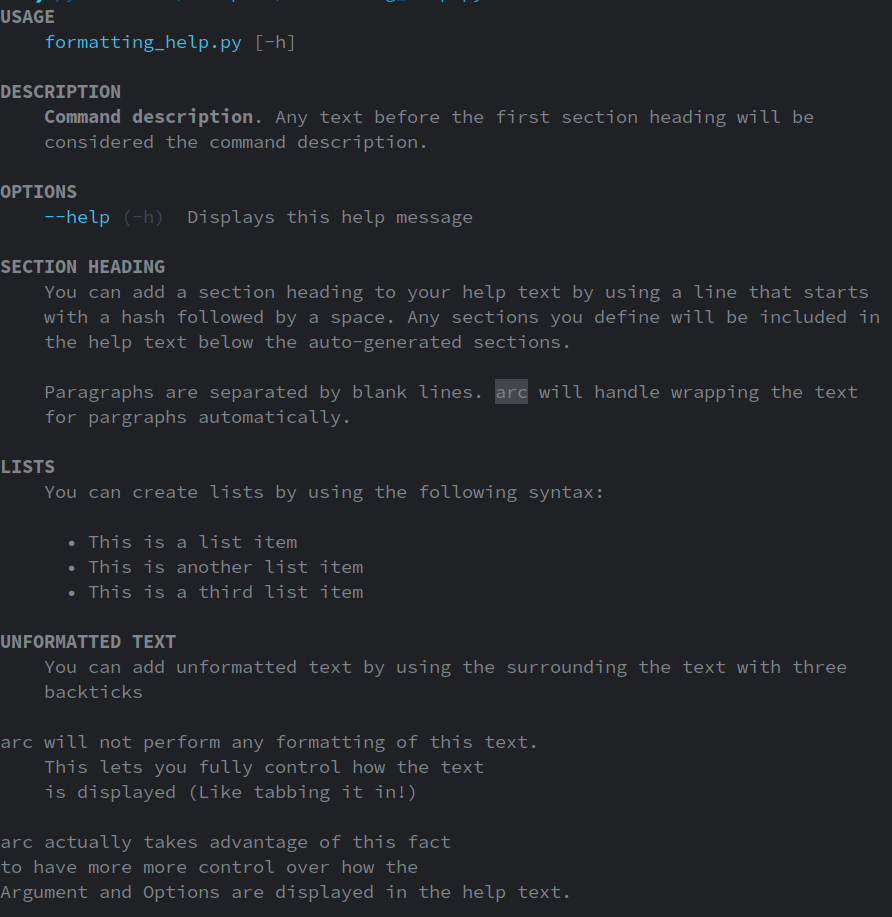
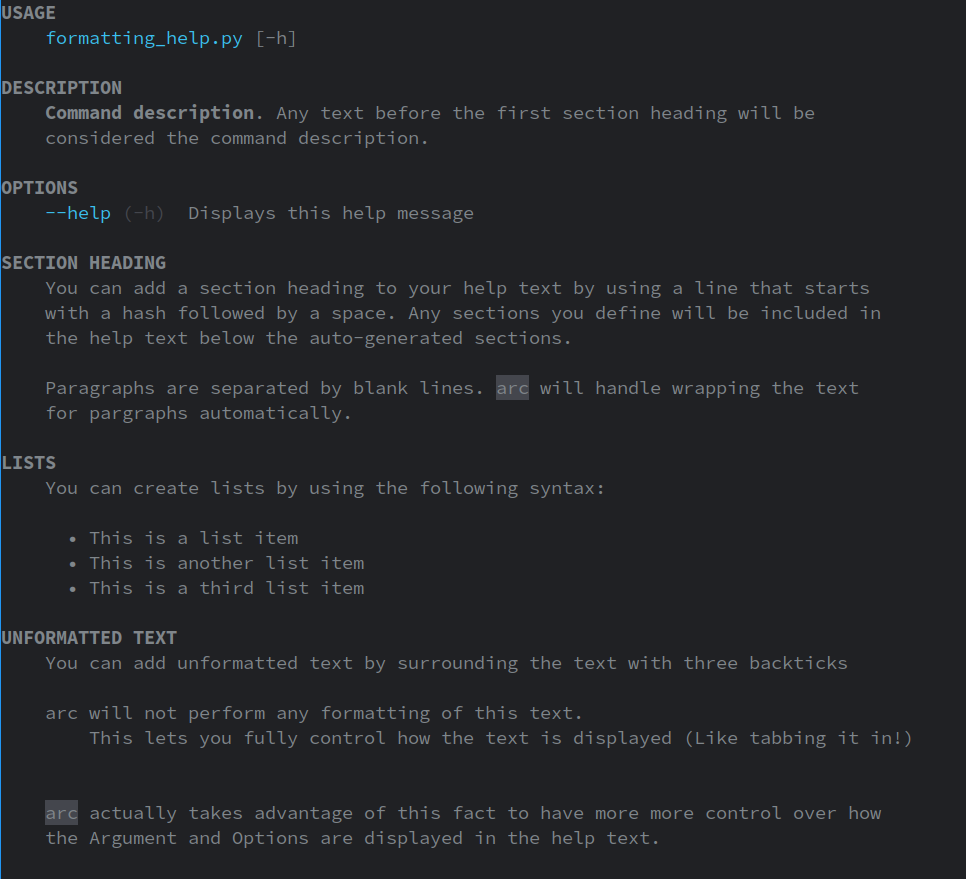
improved help documentation

diff --git a/docs/examples/formatting_help.py b/docs/examples/formatting_help.py
@@ -23,18 +23,17 @@ def command():
     - This is a third list item
 
     # Unformatted text
-    You can add unformatted text by using the
-    surrounding the text with three backticks
+    You can add unformatted text by surrounding the
+    text with three backticks
 
     ```
-    arc will not perform any formatting of this text.
-        This lets you fully control how the text
-        is displayed (Like tabbing it in!)
+        arc will not perform any formatting of this text.
+            This lets you fully control how the text is displayed (Like tabbing it in!)
+    ```
 
-    arc actually takes advantage of this fact
+    `arc` actually takes advantage of this fact
     to have more more control over how the
     Argument and Options are displayed in the help text.
-    ```
     """
 
 

diff --git a/docs/docs/usage/documentation-generation.md b/docs/docs/usage/documentation-generation.md
@@ -9,10 +9,10 @@ Every *arc* application / command comes with a builtin `--help` flag.
 ```
 
 
-## Paramater Documentation
+## Parameter Documentation
 Command parameters are documented using the `desc` argument of `Argument` / `Option` / `Flag`.
 
-Example:
+The following command:
 ```py title="arguments_documentation.py"
 --8<-- "examples/arguments_documentation.py"
 ```
@@ -33,8 +33,8 @@ Will produce the following help output:
 
 ![Markdown Example](../img/markdown.png)
 
-### Inline Formatting
-The above example outlines the block-level formatting (paragraphs, lists, etc). Inline formatting is used to format individual words or phrases. The following syntax is supported:
+### Syntax
+The following syntax is supported:
 
 | Syntax                     | Description                                                                          |
 | -------------------------- | ------------------------------------------------------------------------------------ |
